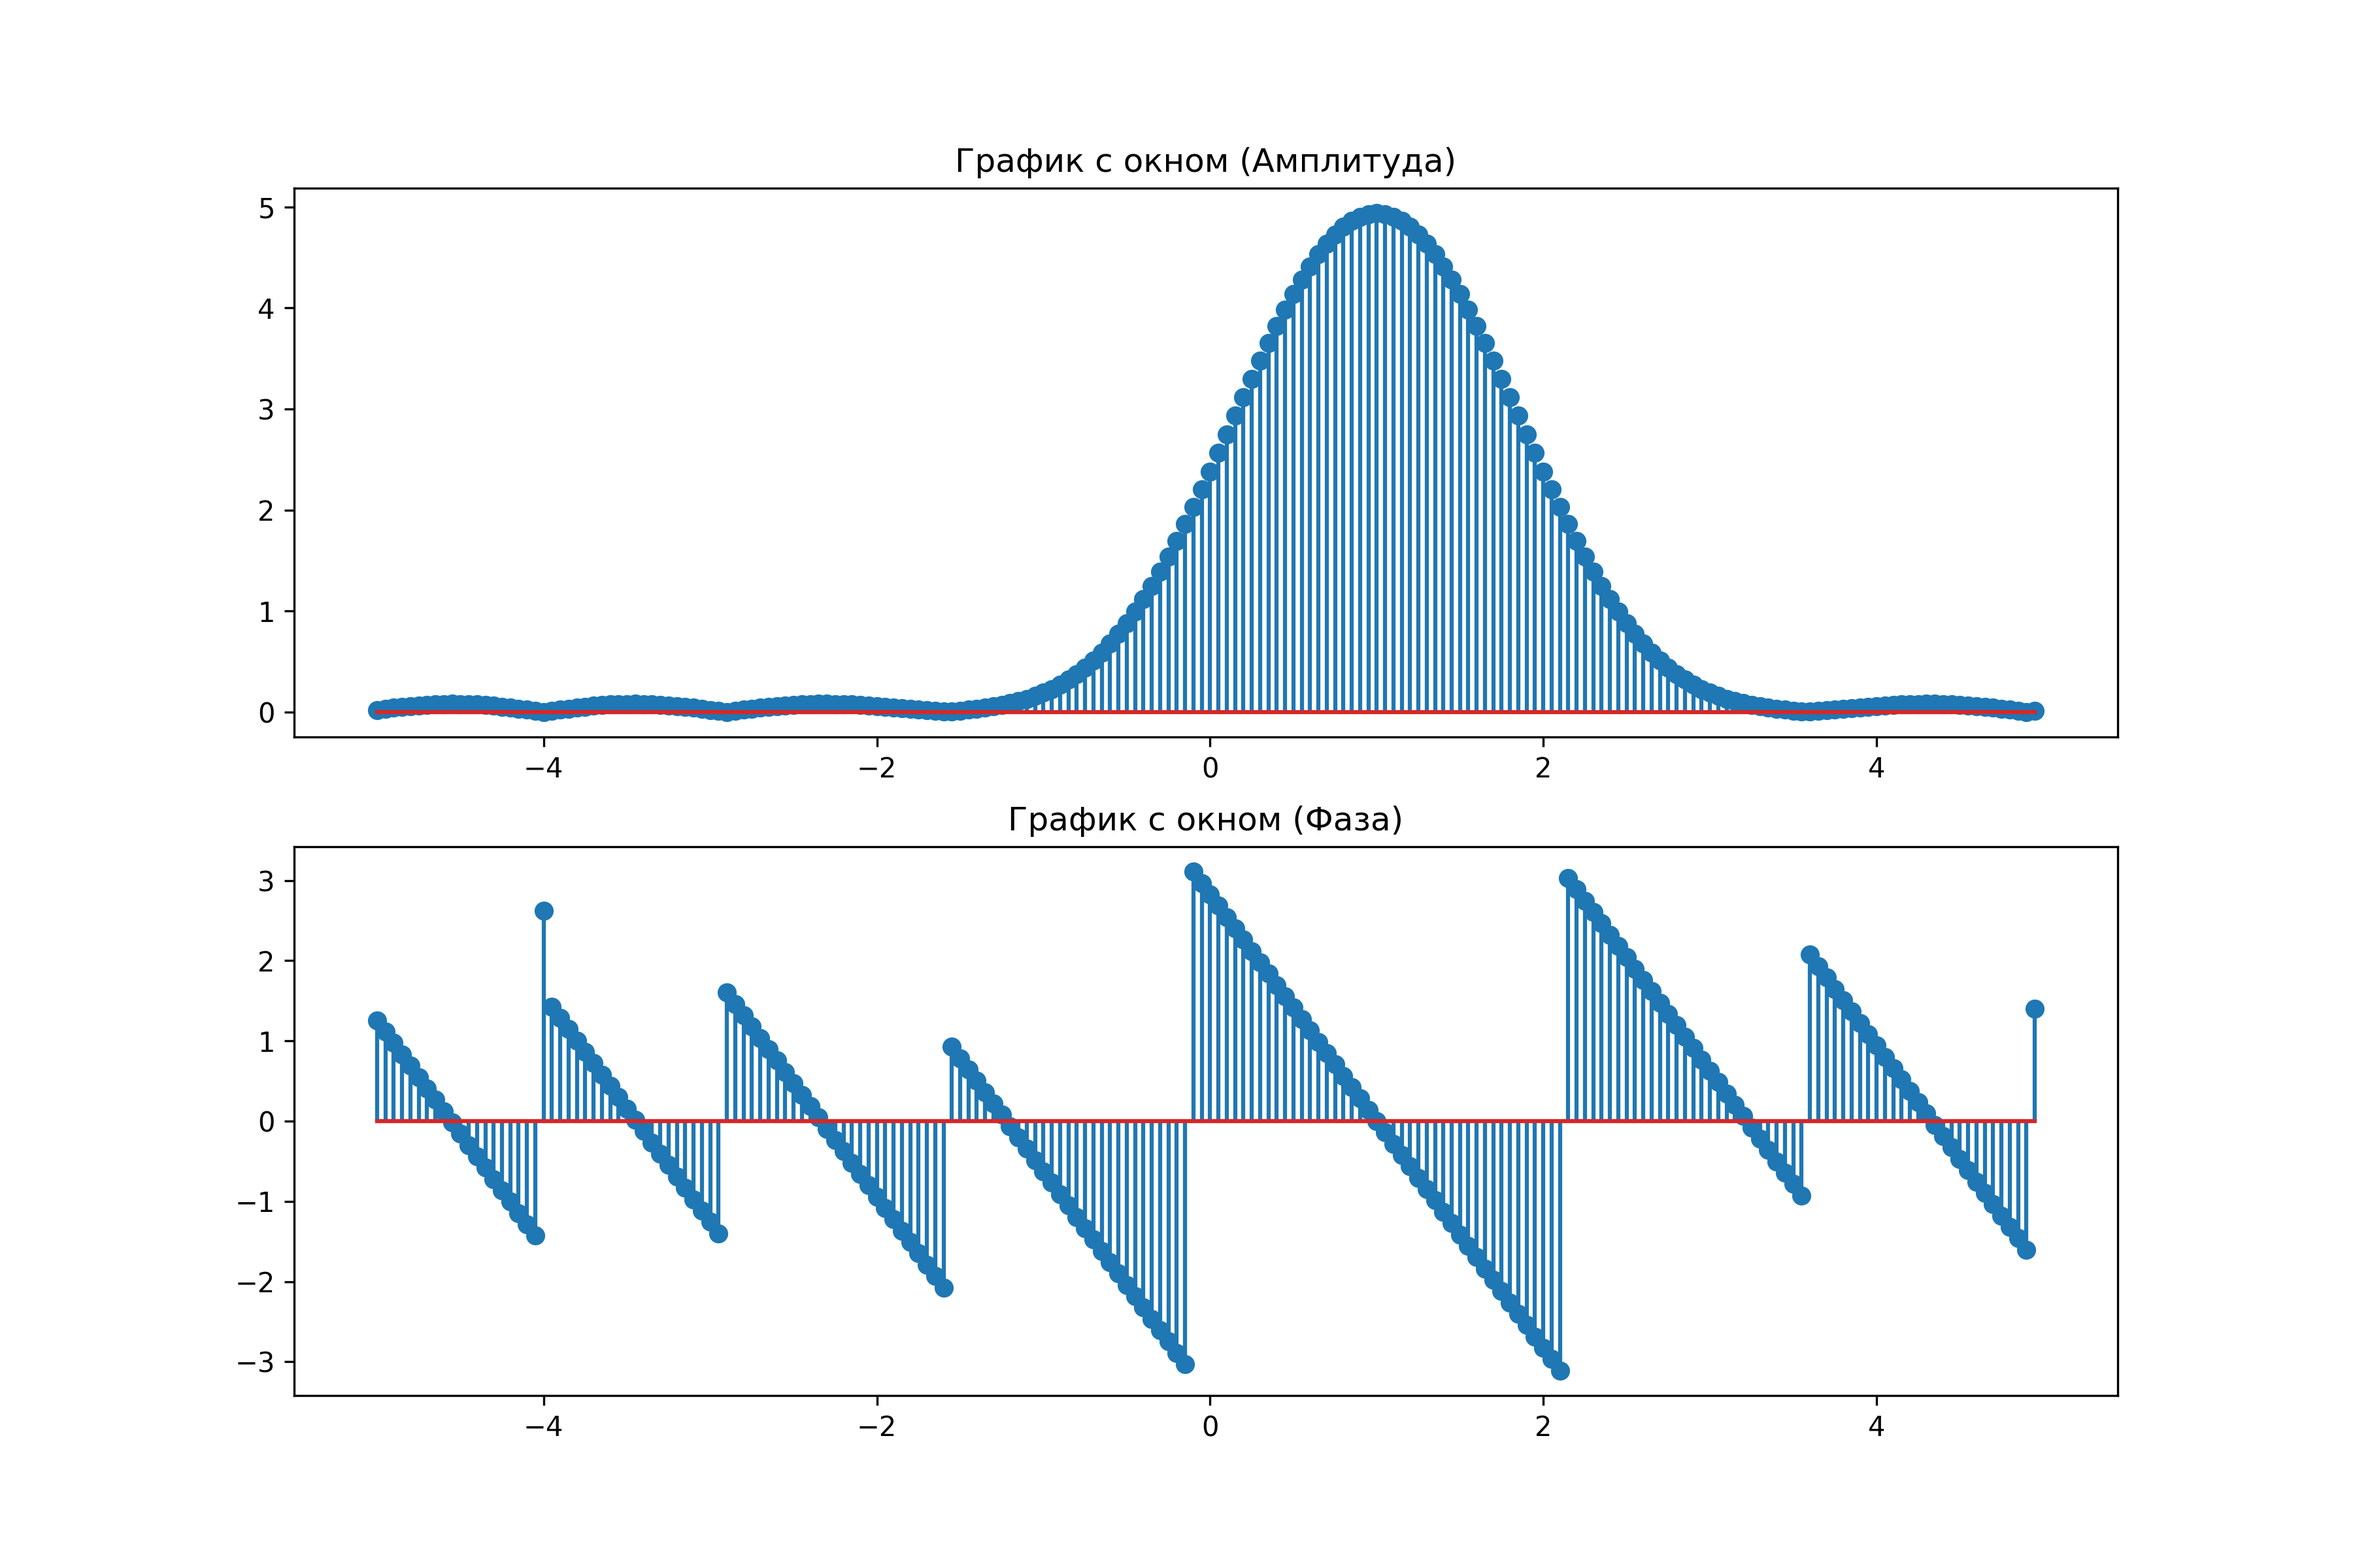
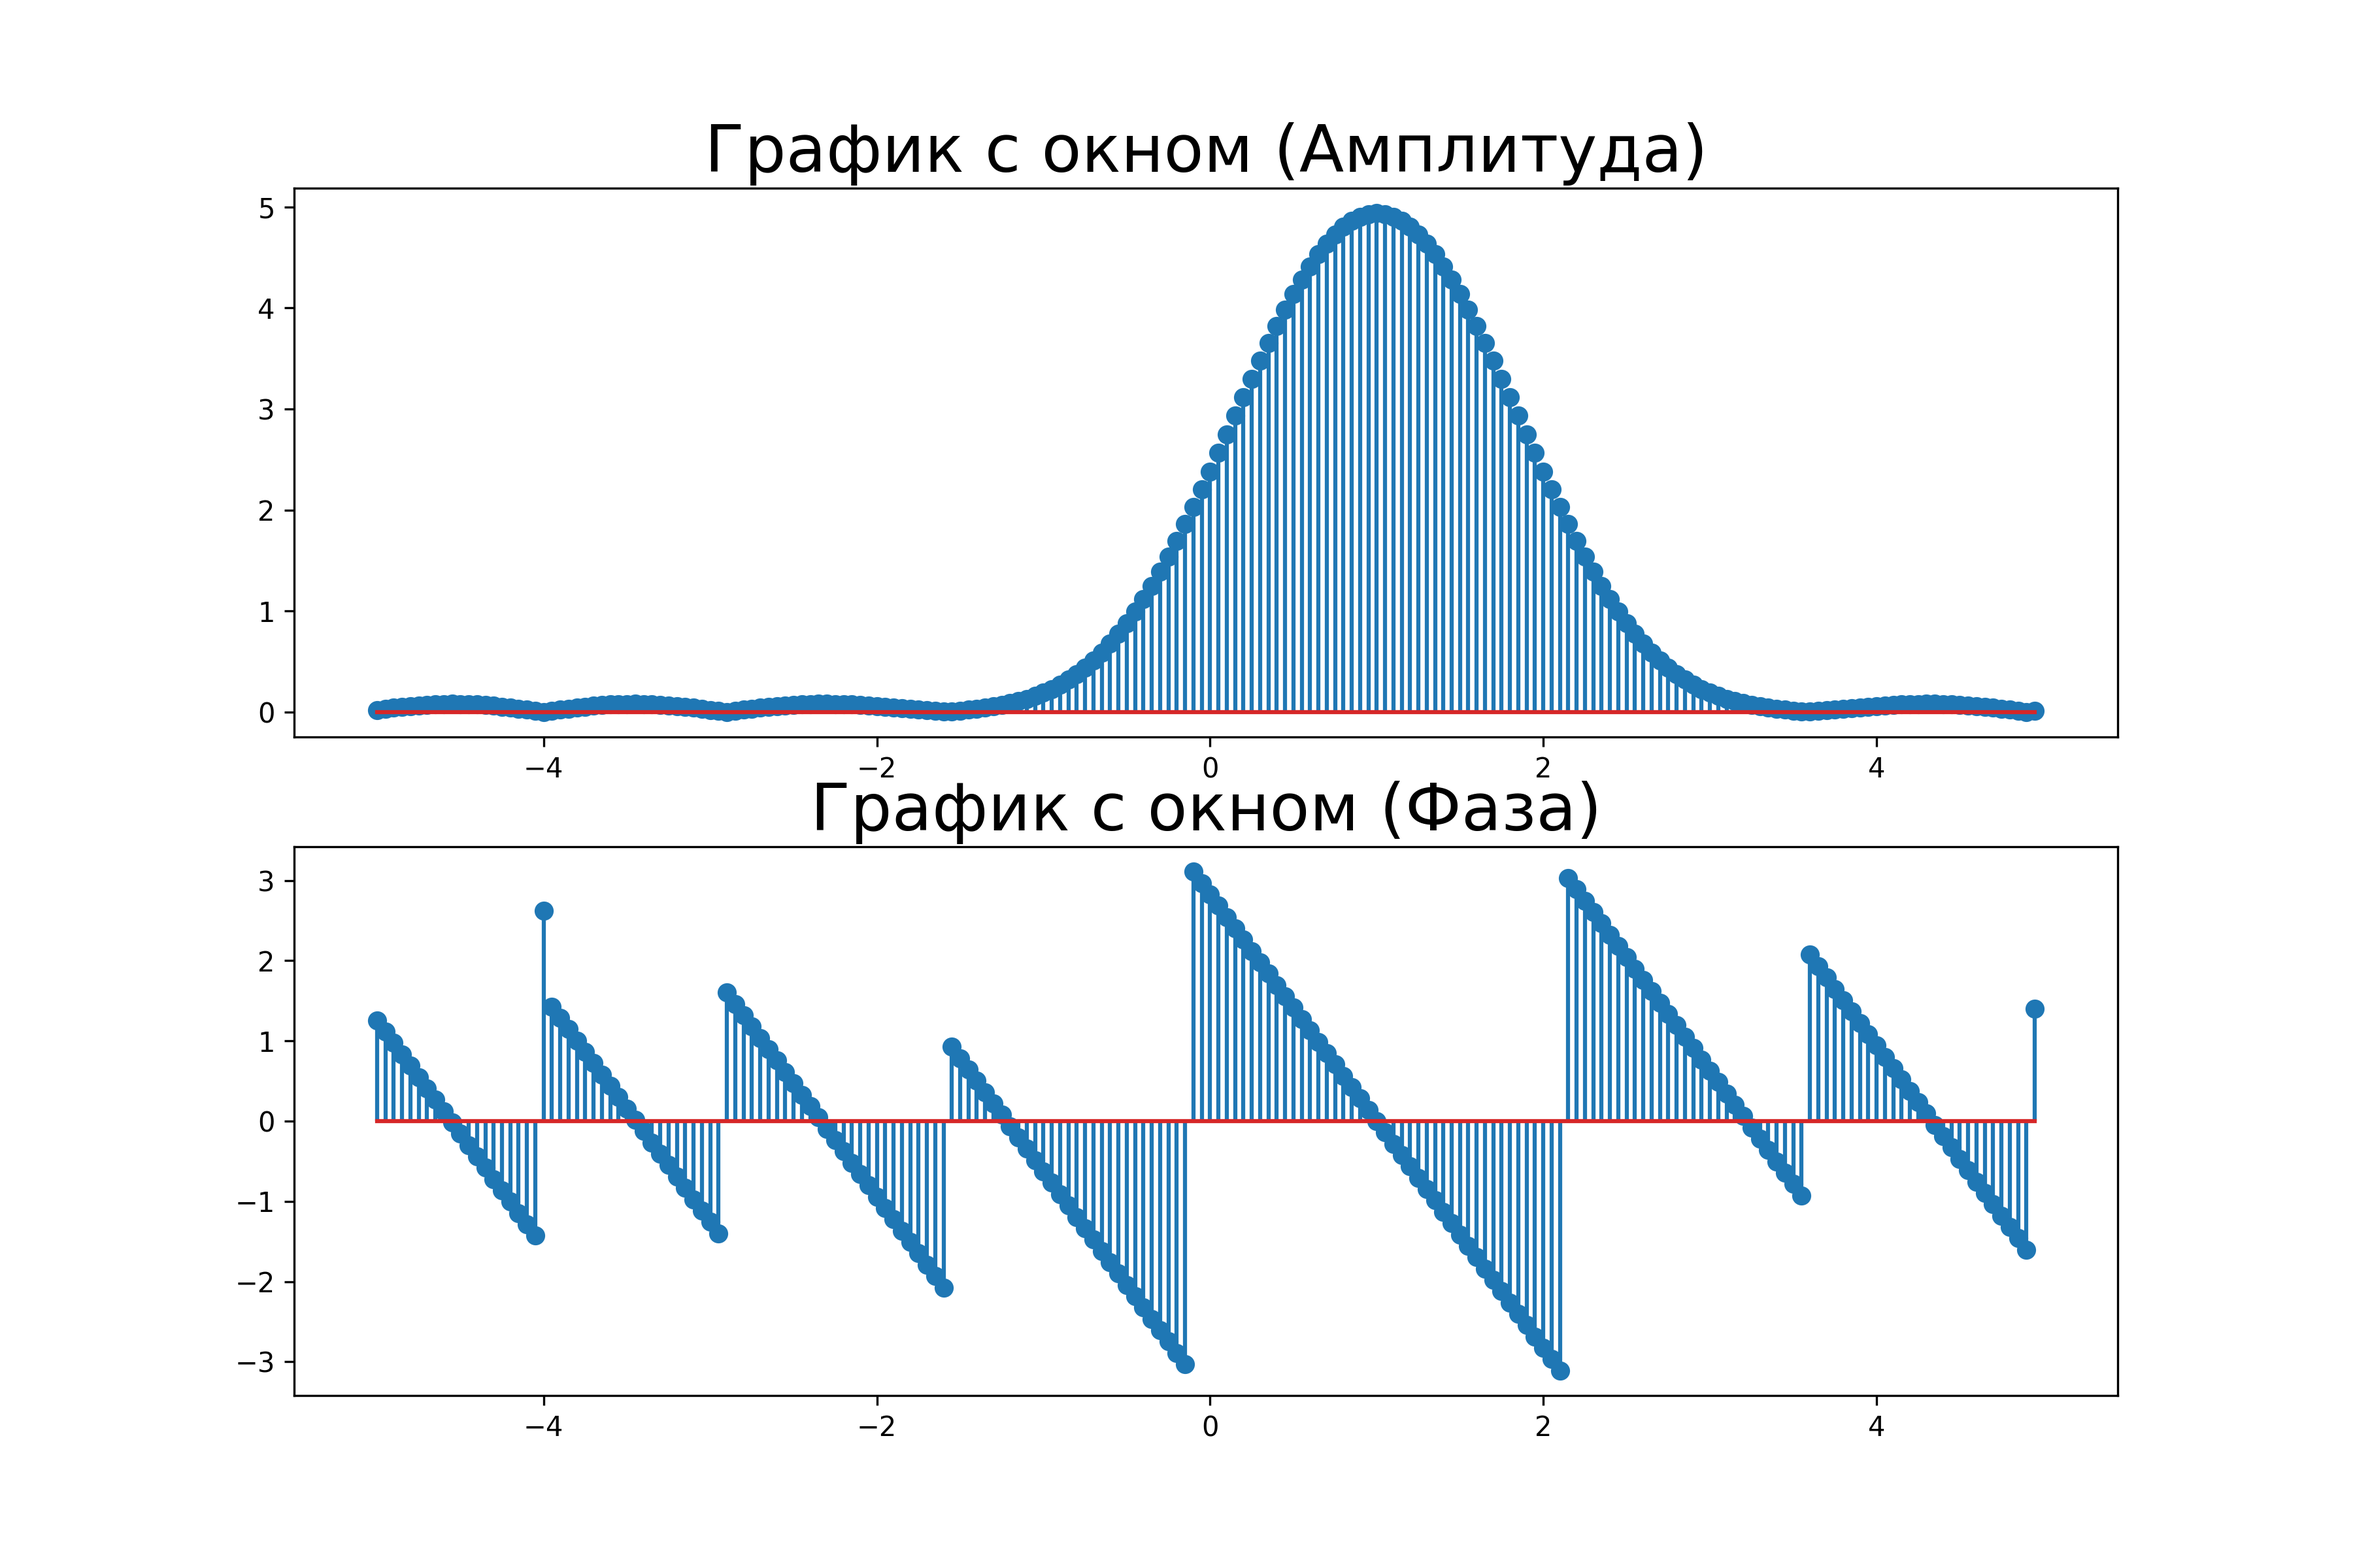
обновил p2_2 (нужно дописать p2)
нет ещё в p2 фазы, только в линейности, пожалуйста доделайте всё это

Changed region(s): [[0.3111, 0.0625, 0.7156, 0.125], [0.3422, 0.5, 0.6844, 0.5312]]

diff --git a/p2_2.py b/p2_2.py
@@ -20,31 +20,31 @@ def test_signal(f0, fs, T, x, N, show_graphs):
     plt.figure()
     plt.subplot(2,1,1)
     plt.stem(freq, np.abs(X))
-    plt.title("График с N=10 (Амплитуда)")
+    plt.title("График с N=10 (Амплитуда)", fontdict={'fontsize': 24})
 
     plt.subplot(2,1,2)
     plt.stem(freq, np.angle(X))
-    plt.title("График с N=10 (Фаза)")
+    plt.title("График с N=10 (Фаза)", fontdict={'fontsize': 24})
     plt.savefig('./p2_2/magnitude_phase_N10.png', dpi=300)
 
     plt.figure()
     plt.subplot(2,1,1)
     plt.stem(freq2, np.abs(X_padded))
-    plt.title("График с N=200 (Амплитуда)")
+    plt.title("График с N=200 (Амплитуда)", fontdict={'fontsize': 24})
 
     plt.subplot(2,1,2)
     plt.stem(freq2, np.angle(X_padded))
-    plt.title("График с N=200 (Фаза)")
+    plt.title("График с N=200 (Фаза)", fontdict={'fontsize': 24})
     plt.savefig('./p2_2/magnitude_phase_N200.png', dpi=300)
 
     plt.figure()
     plt.subplot(2,1,1)
     plt.stem(freq_win, np.abs(X_win))
-    plt.title("График с окном (Амплитуда)")
+    plt.title("График с окном (Амплитуда)", fontdict={'fontsize': 24})
 
     plt.subplot(2,1,2)
     plt.stem(freq_win, np.angle(X_win))
-    plt.title("График с окном (Фаза)")
+    plt.title("График с окном (Фаза)", fontdict={'fontsize': 24})
     plt.savefig('./p2_2/magnitude_phase_window.png', dpi=300)
     
     if(show_graphs == True):
@@ -65,6 +65,12 @@ def real_signals(filenames, show_graphs):
             dt = 1.0 / 5000.0
             time = np.arange(len(signal)) * dt
         
+        N = 9
+        LEVELS = 2**N
+        Delta = -0.167783
+        Vref = 3.055693
+        signal = (Vref / LEVELS) * signal - Delta
+        
         dt = np.median(np.diff(time))
         Fs = 1 / dt
         N = len(signal)
@@ -73,14 +79,12 @@ def real_signals(filenames, show_graphs):
         print(f"Количество отсчетов: {N}")
         print(f"Частота дискретизации: {Fs:.2f} Гц")
         
-        # === 3. FFT ===
-        Nfft = 1 << (int(np.ceil(np.log2(N))))  # ближайшая степень двойки
+        Nfft = 1 << (int(np.ceil(np.log2(N))))
         X = np.fft.rfft(x, n=Nfft)
         freqs = np.fft.rfftfreq(Nfft, d=dt)
         amplitude = (2.0 / N) * np.abs(X)
         phase = np.angle(X)
 
-        # === 4. Поиск основной гармоники ===
         valid_idx = np.where(freqs > 1)[0]
         main_idx = valid_idx[np.argmax(amplitude[valid_idx])]
         f1 = freqs[main_idx]
@@ -108,29 +112,29 @@ def real_signals(filenames, show_graphs):
         plt.title("Сигнал во временной области")
         plt.xlabel("Время, с")
         plt.ylabel("Амплитуда")
-        plt.xlim(-100, 2600)
         plt.grid(True)
         plt.savefig(f"./p2_2/{filename[:-4]}_signal.png", dpi=300)
 
-        plt.figure(figsize=(10, 4))
+        plt.figure(figsize=(10, 8))
+        plt.subplot(2, 1, 1)
         plt.plot(freqs, amplitude)
-        plt.title("Амплитудный спектр (односторонний)")
+        plt.title(f"Амплитудный спектр для сигнала {filename[:-4]}", fontdict={'fontsize': 24})
         plt.xlabel("Частота, Гц")
         plt.ylabel("Амплитуда")
-        plt.xlim(0, Fs / 2)
+        plt.xlim(-50, Fs / 2 + 50)
         plt.grid(True)
-        plt.axvline(f1, color='r', linestyle='--', label=f"f₁ ≈ {f1:.1f} Гц")
-        plt.legend()
-        plt.savefig(f"./p2_2/{filename[:-4]}_magnitude.png", dpi=300)
-
-        plt.figure(figsize=(10, 4))
-        plt.plot(freqs, np.unwrap(phase))
-        plt.title("Фазовый спектр")
+        #plt.axvline(f1, color='r', linestyle='--', label=f"f₁ ≈ {f1:.1f} Гц")
+        #plt.legend()
+        
+        plt.subplot(2, 1, 2)
+        plt.plot(freqs, phase)
+        plt.title(f"Фазовый спектр для сигнала {filename[:-4]}", fontdict={'fontsize': 24})
         plt.xlabel("Частота, Гц")
         plt.ylabel("Фаза, рад")
-        plt.xlim(0, Fs / 2)
+        plt.xlim(-50, Fs / 2 + 50)
         plt.grid(True)
-        plt.savefig(f"./p2_2/{filename[:-4]}_phase.png", dpi=300)
+        plt.tight_layout()
+        plt.savefig(f"./p2_2/{filename[:-4]}_magnitude_phase.png", dpi=300)
         
         if(show_graphs == True):
             plt.show()

diff --git a/p3.py b/p3.py
@@ -13,6 +13,26 @@ def test_signals_magnitude_and_spectrogram(y1, y2, y3, fs, t, show_graphs):
     y1_d = y1(t_digit)
     y2_d = y2(t_digit)
     y3_d = y3(t_digit)
+    
+    plt.figure()
+    plt.subplot(3,1,1)
+    plt.title('Сигналы')
+    plt.plot(t_digit, y1_d)
+    plt.title('y_1(t)')
+    
+    plt.subplot(3,1,2)
+    plt.plot(t_digit, y2_d)
+    plt.title('y_2(t)')
+
+    plt.subplot(3,1,3)
+    plt.plot(t_digit, y3_d)
+    plt.title('y_3(t)')
+    plt.tight_layout()
+    plt.savefig("./p3/signals.png", dpi = 300)
+    if show_graphs ==True:
+        plt.show()
+    else:
+        plt.close()
 
     N = len(t_digit)
     freqs = np.fft.fftfreq(N, 1/fs)
@@ -25,16 +45,19 @@ def test_signals_magnitude_and_spectrogram(y1, y2, y3, fs, t, show_graphs):
     amp3 = np.abs(Y3) * 2/N
 
     plt.figure()
+    plt.xlim(0, 10)
     plt.stem(freqs, amp1)
     plt.title('Амплитудный спектр y_1(t)')
     plt.savefig("./p3/y1magnitude.png")
 
     plt.figure()
+    plt.xlim(0, 10)
     plt.stem(freqs, amp2)
     plt.title('Амплитудный спектр y_2(t)')
     plt.savefig("./p3/y2magnitude.png")
 
     plt.figure()
+    plt.xlim(0, 10)
     plt.stem(freqs, amp3)
     plt.title('Амплитудный спектр y_3(t)')
     plt.savefig("./p3/y3magnitude.png")
@@ -45,7 +68,7 @@ def test_signals_magnitude_and_spectrogram(y1, y2, y3, fs, t, show_graphs):
     else:
         plt.close()
     
-    window_sizes = [int(0.01 * N), int(0.1 * N), int(0.3 * N)]
+    window_sizes = [int(0.5 * N)]
     window_sizes = [max(8, w) for w in window_sizes]  
 
     def plot_stft(y, title_prefix):
@@ -54,7 +77,7 @@ def test_signals_magnitude_and_spectrogram(y1, y2, y3, fs, t, show_graphs):
             win = windows.hamming(wlen)
             f, t_stft, Zxx = stft(y, fs=fs, window=win, nperseg=wlen, noverlap=wlen//2)
             plt.subplot(3, 1, i+1)
-            plt.ylim(0, 10)
+            plt.ylim(0, 100)
             plt.xlim(0, 3)
             plt.pcolormesh(t_stft, f, np.abs(Zxx), cmap='gnuplot', shading='auto')
             plt.title(f"{title_prefix} — окно Хемминга длиной {int(wlen/N*100)}% ({wlen} отсчётов)")

diff --git a/p2.py b/p2.py
@@ -42,7 +42,7 @@ def prove_linearity(t_numeric, T, N, Ts, show_graphs):
     Z = fft(z_numeric)
     Z_linear = a * X + b * Y
     
-    fig, axes = plt.subplots(2, 2, figsize=(12, 8))
+    fig, axes = plt.subplots(3, 2, figsize=(18, 12))
     
     axes[0, 0].plot(t_numeric, x_numeric, 'b', label=f'sin(2π·{f1}·t)')
     axes[0, 0].plot(t_numeric, y_numeric, 'r', label=f'sin(2π·{f2}·t)')
@@ -61,6 +61,15 @@ def prove_linearity(t_numeric, T, N, Ts, show_graphs):
     
     axes[1, 1].stem(f[pos_idx][:20], np.abs(Z_linear)[pos_idx][:20], basefmt="C1-")
     axes[1, 1].set_title('Амплитудный спектр: aFFT[x] + bFFT[y]')
+    
+    phase_Z = np.angle(Z)
+    phase_Z_linear = np.angle(Z_linear)
+    
+    axes[2, 0].stem(f[pos_idx][:20], phase_Z[pos_idx][:20], basefmt="C0-")
+    axes[2, 0].set_title('Фазовый спектр: FFT[ax+by]')
+
+    axes[2, 1].stem(f[pos_idx][:20], phase_Z_linear[pos_idx][:20], basefmt="C1-")
+    axes[2, 1].set_title('Фазовый спектр: aFFT[x]+bFFT[y]')
     
     plt.tight_layout()
     plt.savefig("./p2/linearity.png", dpi=300)
@@ -103,7 +112,7 @@ def prove_convolution(show_graphs):
     Z_conv = fft(conv_time)
     Z_product = X * Y
 
-    fig, axes = plt.subplots(2, 2, figsize=(12, 8))
+    fig, axes = plt.subplots(3, 2, figsize=(18, 12))
     
     axes[0, 0].stem(x, basefmt="C0-")
     axes[0, 0].set_title('Сигнал x(n)')
@@ -129,7 +138,6 @@ def prove_convolution(show_graphs):
     print(f"Свойство свертки подтверждено: {diff < 1e-10}")
 
 def prove_shift(t_numeric, N, Ts, show_graphs):
-    
     print("\n" + "=" * 60)
     print("Свойство сдвига")
     print("=" * 60)
@@ -159,7 +167,7 @@ def prove_shift(t_numeric, N, Ts, show_graphs):
     X_shifted_freq = X * phase_shift
     X_shifted_time = fft(x_shifted)
 
-    fig, axes = plt.subplots(2, 2, figsize=(12, 8))
+    fig, axes = plt.subplots(3, 2, figsize=(18, 12))
     
     axes[0, 0].plot(t_numeric, x, 'b')
     axes[0, 0].set_title('Исходный сигнал x(n)')

diff --git a/main.py b/main.py
@@ -57,5 +57,5 @@ y1 = sp.Piecewise(
 y2 = 1/3*(sin(2*sp.pi*f1*t) + sin(2*sp.pi*f2*t) + sin(2*sp.pi*f3*t))
 y3 = sin(2 * sp.pi*(t+0.5)*t)
 
-fs = 1000
+fs = 200
 p3.test_signals_magnitude_and_spectrogram(y1, y2, y3, fs, t, show_graphs=False)
